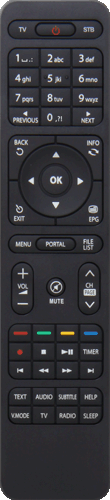
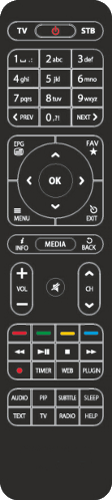
Use correct RCU for INI4

diff --git a/BoxBranding/remotes/ini4/remote.html b/BoxBranding/remotes/ini4/remote.html
@@ -1,48 +1,62 @@
-<img border='0' src='static/remotes/ini4/rc.png' usemap='#map' >
+<img border='0' src='static/remotes/ini5/rc.png' usemap='#map' >
 <map name="map">
-	<area shape="circle" coords="107,26,12" alt="Power" onclick="pressMenuRemote('116');">
-	<area shape="circle" coords="22,60,12" alt="1" onclick="pressMenuRemote('2');">
-	<area shape="circle" coords="54,60,12" alt="2" onclick="pressMenuRemote('3');">
-	<area shape="circle" coords="86,60,12" alt="3" onclick="pressMenuRemote('4');">
-	<area shape="circle" coords="22,85,12" alt="4" onclick="pressMenuRemote('5');">
-	<area shape="circle" coords="54,85,12" alt="5" onclick="pressMenuRemote('6');">
-	<area shape="circle" coords="86,85,12" alt="6" onclick="pressMenuRemote('7');">
-	<area shape="circle" coords="22,111,12" alt="7" onclick="pressMenuRemote('8');">
-	<area shape="circle" coords="54,111,12" alt="8" onclick="pressMenuRemote('9');">
-	<area shape="circle" coords="86,111,12" alt="9" onclick="pressMenuRemote('10');">
-	<area shape="circle" coords="22,136,12" alt="previous" onclick="pressMenuRemote('412');">
-	<area shape="circle" coords="54,136,12" alt="0" onclick="pressMenuRemote('11');">
-	<area shape="circle" coords="86,136,12" alt="next" onclick="pressMenuRemote('407');">
-	<area shape="circle" coords="20,365,10" alt="red" onclick="pressMenuRemote('398');">
-	<area shape="circle" coords="42,365,10" alt="green" onclick="pressMenuRemote('399');">
-	<area shape="circle" coords="65,365,10" alt="yellow" onclick="pressMenuRemote('400');">
-	<area shape="circle" coords="88,365,10" alt="blue" onclick="pressMenuRemote('401');">
-	<area shape="circle" coords="21,219,10" alt="menu" onclick="pressMenuRemote('139');">
-	<area shape="circle" coords="21,296,12" alt="epg" onclick="pressMenuRemote('365');">
-	<area shape="circle" coords="53,192,12" alt="info" onclick="pressMenuRemote('358');">
-	<area shape="circle" coords="65,38,12" alt="audio" onclick="pressMenuRemote('392');">	
-	<area shape="circle" coords="86,219,10" alt="exit" onclick="pressMenuRemote('174');">
-	<area shape="circle" coords="54,233,12" alt="up" onclick="pressMenuRemote('103');">
-	<area shape="circle" coords="54,281,12" alt="down" onclick="pressMenuRemote('108');">
-	<area shape="circle" coords="28,258,12" alt="left" onclick="pressMenuRemote('105');">
-	<area shape="circle" coords="80,258,12" alt="right" onclick="pressMenuRemote('106');">
-	<area shape="circle" coords="54,258,15" alt="OK" onclick="pressMenuRemote('352');">
-	<area shape="circle" coords="24,163,15" alt="volume up" onclick="pressMenuRemote('115');">
-	<area shape="circle" coords="24,193,15" alt="volume down" onclick="pressMenuRemote('114');">
-	<area shape="circle" coords="54,162,10" alt="mute" onclick="pressMenuRemote('113');">
-	<area shape="circle" coords="85,293,12" alt="filelist" onclick="pressMenuRemote('393');">
-	<area shape="circle" coords="84,163,12" alt="channel up" onclick="pressMenuRemote('402');">
-	<area shape="circle" coords="84,193,12" alt="channel down" onclick="pressMenuRemote('403');">
-	<area shape="circle" coords="42,403,10" alt="rewind" onclick="pressMenuRemote('168');">
-	<area shape="circle" coords="19,384,10" alt="play" onclick="pressMenuRemote('207');">
-	<area shape="circle" coords="65,384,10" alt="pause" onclick="pressMenuRemote('119');">
-	<area shape="circle" coords="43,384,10" alt="stop" onclick="pressMenuRemote('128');">	
-	<area shape="circle" coords="65,403,10" alt="forward" onclick="pressMenuRemote('208');">
-	<area shape="circle" coords="42,38,10" alt="subtitle" onclick="pressMenuRemote('370');">
-	<area shape="circle" coords="88,38,10" alt="timer" onclick="pressMenuRemote('362');">	
-	<area shape="circle" coords="88,384,10" alt="record" onclick="pressMenuRemote('167');">
-	<area shape="circle" coords="19,403,10" alt="tv" onclick="pressMenuRemote('377');">
-	<area shape="circle" coords="88,403,10" alt="radio" onclick="pressMenuRemote('385');">
-	<area shape="circle" coords="19,39,10" alt="text" onclick="pressMenuRemote('388');">	
-	<area shape="circle" coords="89,424,10" alt="help" onclick="pressMenuRemote('138');">
+	<area shape="circle" coords="55,32,12" alt="Power" onclick="pressMenuRemote('116');">
+	<area shape="circle" coords="19,58,12" alt="1" onclick="pressMenuRemote('2');">
+	<area shape="circle" coords="55,58,12" alt="2" onclick="pressMenuRemote('3');">
+	<area shape="circle" coords="87,58,12" alt="3" onclick="pressMenuRemote('4');">
+	<area shape="circle" coords="19,78,12" alt="4" onclick="pressMenuRemote('5');">
+	<area shape="circle" coords="55,78,12" alt="5" onclick="pressMenuRemote('6');">
+	<area shape="circle" coords="87,78,12" alt="6" onclick="pressMenuRemote('7');">
+	<area shape="circle" coords="19,98,12" alt="7" onclick="pressMenuRemote('8');">
+	<area shape="circle" coords="55,98,12" alt="8" onclick="pressMenuRemote('9');">
+	<area shape="circle" coords="87,98,12" alt="9" onclick="pressMenuRemote('10');">
+	<area shape="circle" coords="19,117,12" alt="previous" onclick="pressMenuRemote('412');">
+	<area shape="circle" coords="55,117,12" alt="0" onclick="pressMenuRemote('11');">
+	<area shape="circle" coords="87,117,12" alt="next" onclick="pressMenuRemote('407');">
+
+	<area shape="circle" coords="19,147,12" alt="epg" onclick="pressMenuRemote('365');">
+	<area shape="circle" coords="92,147,12" alt="fav" onclick="pressMenuRemote('364');">
+	<area shape="circle" coords="19,215,12" alt="menu" onclick="pressMenuRemote('139');">
+	<area shape="circle" coords="92,211,12" alt="exit" onclick="pressMenuRemote('174');">
+	
+	<area shape="circle" coords="55,180,15" alt="OK" onclick="pressMenuRemote('352');">
+	<area shape="circle" coords="55,155,12" alt="up" onclick="pressMenuRemote('103');">
+	<area shape="circle" coords="55,205,12" alt="down" onclick="pressMenuRemote('108');">
+	<area shape="circle" coords="30,180,12" alt="left" onclick="pressMenuRemote('105');">
+	<area shape="circle" coords="81,180,12" alt="right" onclick="pressMenuRemote('106');">
+	
+	<area shape="circle" coords="22,244,12" alt="info" onclick="pressMenuRemote('358');">
+	<area shape="circle" coords="55,244,15" alt="media" onclick="pressMenuRemote('226');">
+	<area shape="circle" coords="94,244,12" alt="back" onclick="pressMenuRemote('405');">
+	
+	<area shape="circle" coords="22,272,12" alt="volume up" onclick="pressMenuRemote('115');">
+	<area shape="circle" coords="22,304,12" alt="volume down" onclick="pressMenuRemote('114');">
+	<area shape="circle" coords="55,287,10" alt="mute" onclick="pressMenuRemote('113');">
+	<area shape="circle" coords="88,272,12" alt="channel up" onclick="pressMenuRemote('402');">
+	<area shape="circle" coords="88,304,12" alt="channel down" onclick="pressMenuRemote('403');">
+	
+	<area shape="circle" coords="19,332,10" alt="red" onclick="pressMenuRemote('398');">
+	<area shape="circle" coords="43,332,10" alt="green" onclick="pressMenuRemote('399');">
+	<area shape="circle" coords="67,332,10" alt="yellow" onclick="pressMenuRemote('400');">
+	<area shape="circle" coords="91,332,10" alt="blue" onclick="pressMenuRemote('401');">
+
+	<area shape="circle" coords="19,350,10" alt="rewind" onclick="pressMenuRemote('168');">
+	<area shape="circle" coords="43,350,10" alt="playpause" onclick="pressMenuRemote('164');">
+	<area shape="circle" coords="67,350,10" alt="stop" onclick="pressMenuRemote('128');">
+	<area shape="circle" coords="91,350,10" alt="forward" onclick="pressMenuRemote('208');">
+
+	<area shape="circle" coords="19,369,10" alt="record" onclick="pressMenuRemote('167');">
+	<area shape="circle" coords="43,369,10" alt="timer" onclick="pressMenuRemote('362');">
+	<area shape="circle" coords="67,369,10" alt="web" onclick="pressMenuRemote('217');">
+	<area shape="circle" coords="91,369,10" alt="plugin" onclick="pressMenuRemote('156');">
+	
+	<area shape="circle" coords="19,396,10" alt="audio" onclick="pressMenuRemote('392');">
+	<area shape="circle" coords="43,396,10" alt="pip" onclick="pressMenuRemote('375');">
+	<area shape="circle" coords="67,396,10" alt="subtitle" onclick="pressMenuRemote('370');">
+	<area shape="circle" coords="91,396,10" alt="sleep" onclick="pressMenuRemote('142');">
+
+	<area shape="circle" coords="19,414,10" alt="text" onclick="pressMenuRemote('388');">
+	<area shape="circle" coords="43,414,10" alt="tv" onclick="pressMenuRemote('377');">
+	<area shape="circle" coords="67,414,10" alt="radio" onclick="pressMenuRemote('385');">
+	<area shape="circle" coords="91,414,10" alt="help" onclick="pressMenuRemote('138');">
 </map>
